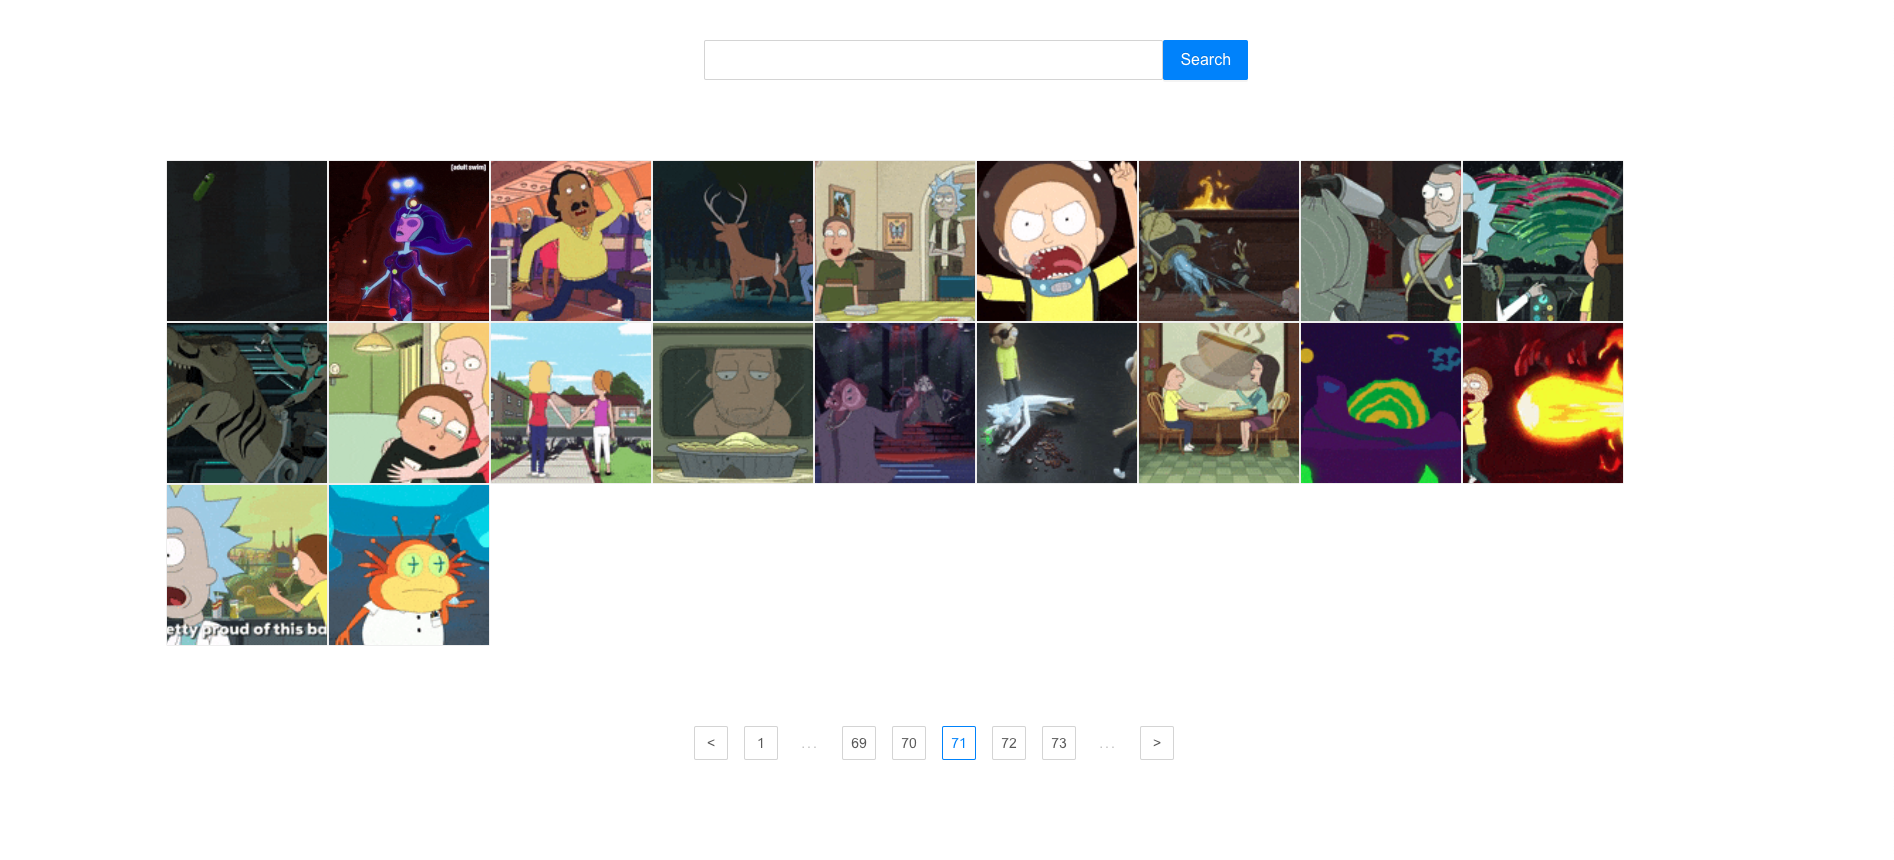
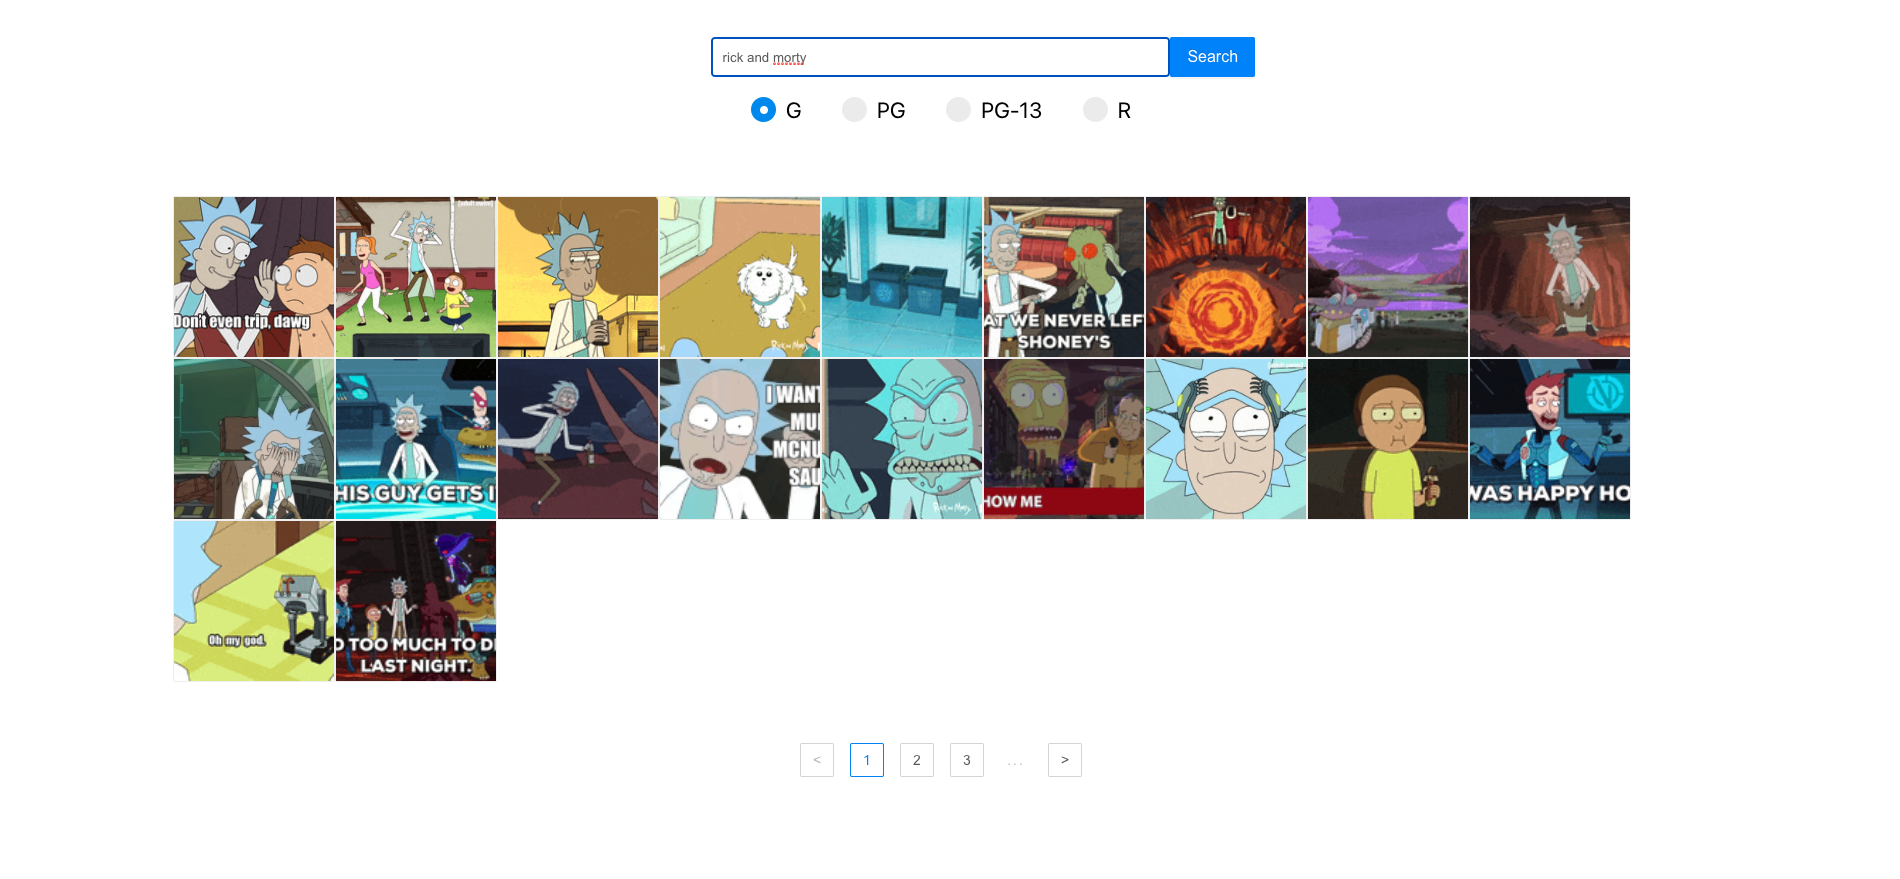
feat: added rating refactor: create params with function

diff --git a/src/components/main/layout.js b/src/components/main/layout.js
@@ -4,20 +4,24 @@ import { SearchBox } from '../search';
 import { Thumbnail } from '../thumbnail';
 import { Lightbox } from '../lightbox';
 import { Pagination } from '../pagination';
+import { RadioGroup } from '../radio-group';
 import './layout.scss';
 
 import { AMOUNT_PER_PAGE, FIRST_PAGE } from '../../constants';
 import { Modal } from '../modal/modal';
 import { isNil, isEmpty } from 'ramda';
-import { parseLocationParams, searchGifForCriteria } from './utils';
+import {
+  parseLocationParams,
+  searchGifForCriteria,
+  queryParamsObjectToString,
+} from '../utils';
 
 export const Layout = () => {
   const location = useLocation();
 
-  const { criteria, page = FIRST_PAGE, imageIdx } = parseLocationParams(
+  const { criteria, page = FIRST_PAGE, imageIdx, rating } = parseLocationParams(
     location
   );
-
   const [state, setState] = useState({
     searchResult: { data: [], pagination: {} },
   });
@@ -25,29 +29,49 @@ export const Layout = () => {
   let history = useHistory();
 
   useEffect(() => {
-    async function search(searchCriteria, pageNumber) {
+    async function search(searchCriteria, pageNumber, rating) {
       const searchResult = await searchGifForCriteria(
         searchCriteria,
-        pageNumber
+        pageNumber,
+        rating
       );
       setState({ searchResult });
     }
 
     if (!isNil(criteria)) {
-      search(criteria, page);
+      search(criteria, page, rating);
     }
-  }, [criteria, page]);
+  }, [criteria, page, rating]);
 
   const onSearch = (criteria) =>
     history.push({
       pathname: '/',
-      search: `?criteria=${criteria}&page=${FIRST_PAGE}`,
+      search: `?${queryParamsObjectToString({
+        criteria,
+        page: FIRST_PAGE,
+        rating,
+      })}`,
+    });
+
+  const onUpdateRating = (newRating) =>
+    history.push({
+      pathname: '/',
+      search: `?${queryParamsObjectToString({
+        criteria,
+        page,
+        rating: newRating,
+      })}`,
     });
 
   const openModal = (idx) =>
     history.push({
       pathname: '/',
-      search: `?criteria=${criteria}&page=${FIRST_PAGE}&imageIdx=${idx}`,
+      search: `?${queryParamsObjectToString({
+        criteria,
+        page: FIRST_PAGE,
+        rating,
+        imageIdx: idx,
+      })}`,
     });
 
   const { searchResult } = state;
@@ -66,6 +90,7 @@ export const Layout = () => {
     <div className="layout">
       <div className="search-container">
         <SearchBox onSearch={onSearch} />
+        <RadioGroup checkedValue={rating} onChange={onUpdateRating} />
       </div>
       <div className="search-results-container">
         {results.map((result, idx) => (
@@ -83,6 +108,7 @@ export const Layout = () => {
             itemsPerPage={AMOUNT_PER_PAGE}
             currentPage={pageNumber}
             criteria={criteria}
+            rating={rating}
           />
         )}
       </div>
@@ -94,6 +120,7 @@ export const Layout = () => {
             currentIdx={imageIdxNumber}
             currentPage={page}
             maxIdx={count}
+            rating={rating}
           />
         </Modal>
       ) : null}

diff --git a/src/components/radio-group/radiogroup.js b/src/components/radio-group/radiogroup.js
@@ -1,0 +1,50 @@
+import React from 'react';
+import { equals } from 'ramda';
+import './radiogroup.scss';
+export const RadioGroup = ({ checkedValue, onChange }) => {
+  const isSelected = equals(checkedValue);
+  return (
+    <div className="radiogroup">
+      <label className="container">
+        G
+        <input
+          type="radio"
+          checked={isSelected('g')}
+          name="radio"
+          onChange={() => onChange('g')}
+        />
+        <span className="checkmark"></span>
+      </label>
+      <label className="container">
+        PG
+        <input
+          type="radio"
+          checked={isSelected('pg')}
+          name="radio"
+          onChange={() => onChange('pg')}
+        />
+        <span className="checkmark"></span>
+      </label>
+      <label className="container">
+        PG-13
+        <input
+          type="radio"
+          checked={isSelected('pg-13')}
+          name="radio"
+          onChange={() => onChange('pg-13')}
+        />
+        <span className="checkmark"></span>
+      </label>
+      <label className="container">
+        R
+        <input
+          type="radio"
+          checked={isSelected('r')}
+          name="radio"
+          onChange={() => onChange('r')}
+        />
+        <span className="checkmark"></span>
+      </label>
+    </div>
+  );
+};

diff --git a/src/components/utils.js b/src/components/utils.js
@@ -1,8 +1,9 @@
-import { API_KEY, BASE_URL, AMOUNT_PER_PAGE } from '../../constants';
-import { isEmpty, tail } from 'ramda';
+import { API_KEY, BASE_URL, AMOUNT_PER_PAGE } from '../constants';
+import { isEmpty, tail, isNil } from 'ramda';
 
-export const queryParamsToString = (queryParamsObj) =>
+export const queryParamsObjectToString = (queryParamsObj) =>
   Object.entries(queryParamsObj)
+    .filter(([__, value]) => !isNil(value))
     .map(([key, value]) => `${key}=${value}`)
     .join('&');
 
@@ -18,7 +19,7 @@ export const parseLocationParams = ({ search = '' }) => {
   }, {});
 };
 
-export const searchGifForCriteria = (criteria, pageNumber) => {
+export const searchGifForCriteria = (criteria, pageNumber, rating) => {
   const offset = (pageNumber - 1) * AMOUNT_PER_PAGE;
   const queryParams = {
     api_key: API_KEY,
@@ -26,9 +27,10 @@ export const searchGifForCriteria = (criteria, pageNumber) => {
     limit: AMOUNT_PER_PAGE, // Extract to configuration
     offset,
     lang: 'en',
+    rating,
     random_id: 'someRandomIdForSession',
   };
 
-  const url = `${BASE_URL}?${queryParamsToString(queryParams)}`;
+  const url = `${BASE_URL}?${queryParamsObjectToString(queryParams)}`;
   return fetch(url).then((response) => response.json());
 };

diff --git a/src/components/radio-group/radiogroup.scss b/src/components/radio-group/radiogroup.scss
@@ -1,0 +1,60 @@
+.radiogroup {
+  margin: auto;
+  display: flex;
+  justify-content: space-evenly;
+  width: 30%;
+  .container {
+    margin-top: 20px;
+    position: relative;
+    padding-left: 35px;
+    margin-bottom: 12px;
+    cursor: pointer;
+    font-size: 22px;
+    -webkit-user-select: none;
+    -moz-user-select: none;
+    -ms-user-select: none;
+    user-select: none;
+    input {
+      position: absolute;
+      opacity: 0;
+      cursor: pointer;
+    }
+    .checkmark {
+      position: absolute;
+      top: 0;
+      left: 0;
+      height: 25px;
+      width: 25px;
+      background-color: #eee;
+      border-radius: 50%;
+    }
+  }
+
+  .container:hover input ~ .checkmark {
+    background-color: #ccc;
+  }
+
+  .container input:checked ~ .checkmark {
+    background-color: #2196f3;
+  }
+
+  .checkmark:after {
+    content: '';
+    position: absolute;
+    display: none;
+  }
+
+  .container input:checked ~ .checkmark:after {
+    display: block;
+  }
+
+  /* Style the indicator (dot/circle) */
+  .container .checkmark:after {
+    top: 9px;
+    left: 9px;
+    width: 8px;
+    height: 8px;
+    border-radius: 50%;
+    background: white;
+  }
+}

diff --git a/src/components/utils.test.js b/src/components/utils.test.js
@@ -1,6 +1,6 @@
-import { queryParamsToString, parseLocationParams } from './utils';
+import { queryParamsObjectToString, parseLocationParams } from './utils';
 
-describe('queryParamsToString', () => {
+describe('queryParamsObjectToString', () => {
   const pageNumber = 1;
   const criteria = 'cool criteria';
   const someIdx = 0;
@@ -10,10 +10,19 @@ describe('queryParamsToString', () => {
     someIdx,
   };
   it('Should take an object and return a string', () => {
-    const result = queryParamsToString(someObject);
+    const result = queryParamsObjectToString(someObject);
     expect(result).toContain(`pageNumber=${pageNumber}`);
     expect(result).toContain(`criteria=${criteria}`);
     expect(result).toContain(`someIdx=${someIdx}`);
+  });
+
+  it('Should not take into account null or undefined', () => {
+    const withNullOrUndefined = { ...someObject, myKey: null };
+    const result = queryParamsObjectToString(someObject);
+    expect(result).toContain(`pageNumber=${pageNumber}`);
+    expect(result).toContain(`criteria=${criteria}`);
+    expect(result).toContain(`someIdx=${someIdx}`);
+    expect(result).not.toContain(`myKey=${someIdx}`);
   });
 });
 

diff --git a/src/components/lightbox/lightbox.js b/src/components/lightbox/lightbox.js
@@ -2,12 +2,14 @@ import React from 'react';
 import { Link } from 'react-router-dom';
 import './lightbox.scss';
 import { isNil } from 'ramda';
+import { queryParamsObjectToString } from '../utils';
 
 export const Lightbox = ({
   criteria,
   currentPage,
   currentImage,
   currentIdx,
+  rating,
   maxIdx,
 }) => {
   const {
@@ -27,11 +29,20 @@ export const Lightbox = ({
     isNil(imageIdx)
       ? {
           pathname: '/',
-          search: `?criteria=${criteria}&page=${currentPage}`,
+          search: `?${queryParamsObjectToString({
+            criteria,
+            page: currentPage,
+            rating,
+          })}`,
         }
       : {
           pathname: '/',
-          search: `?criteria=${criteria}&page=${currentPage}&imageIdx=${imageIdx}`,
+          search: `?${queryParamsObjectToString({
+            criteria,
+            page: currentPage,
+            imageIdx,
+            rating,
+          })}`,
         };
 
   const previousBtn = isFirstIndexInPage ? (

diff --git a/src/components/pagination/pagination.js b/src/components/pagination/pagination.js
@@ -1,6 +1,7 @@
 import React from 'react';
 import { range, last } from 'ramda';
 import { Link } from 'react-router-dom';
+import { queryParamsObjectToString } from '../utils';
 import './pagination.scss';
 
 export const Pagination = ({
@@ -8,6 +9,7 @@ export const Pagination = ({
   itemsPerPage,
   currentPage,
   criteria,
+  rating,
 }) => {
   const lastPage = Math.ceil(totalCount / itemsPerPage);
   const delta = 2;
@@ -15,7 +17,11 @@ export const Pagination = ({
 
   const toConstructor = (pageNumber) => ({
     pathname: '/',
-    search: `?criteria=${criteria}&page=${pageNumber}`,
+    search: `?${queryParamsObjectToString({
+      criteria,
+      page: pageNumber,
+      rating,
+    })}`,
   });
 
   const renderPage = (pageNumber) => (

diff --git a/src/components/main/layout.scss b/src/components/main/layout.scss
@@ -9,6 +9,8 @@
   height: 800px;
   .search-container {
     width: 100%;
+    display: flex;
+    flex-direction: column;
   }
   .search-results-container {
     display: flex;

diff --git a/src/components/lightbox/lightbox.scss b/src/components/lightbox/lightbox.scss
@@ -16,7 +16,6 @@
     font-size: 48px;
     .image-container {
       max-width: 400px;
-      background-color: red;
     }
     .controls {
       color: white;

diff --git a/src/components/radio-group/index.js b/src/components/radio-group/index.js
@@ -1,0 +1,1 @@
+export * from './radiogroup';
